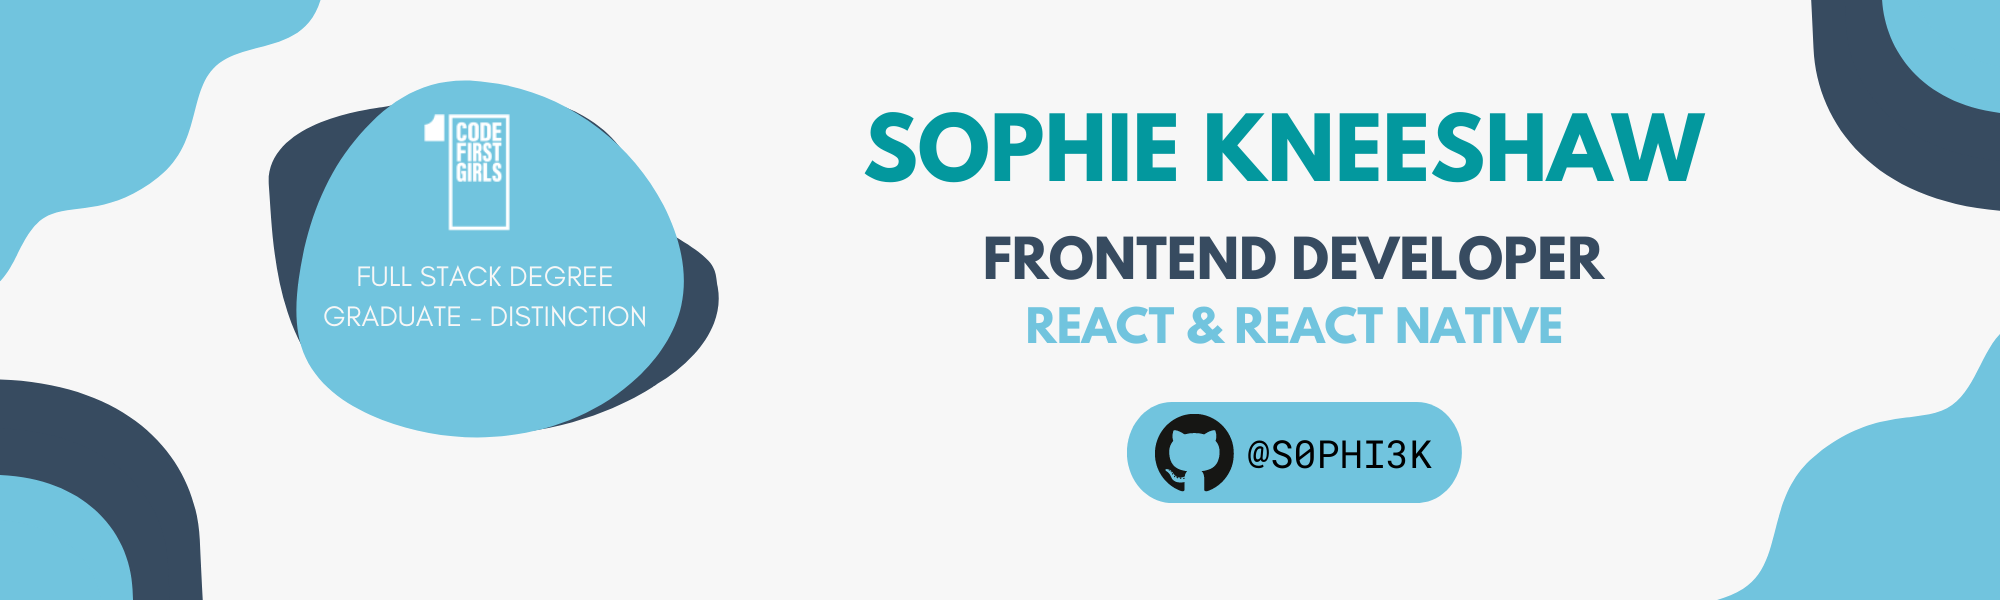
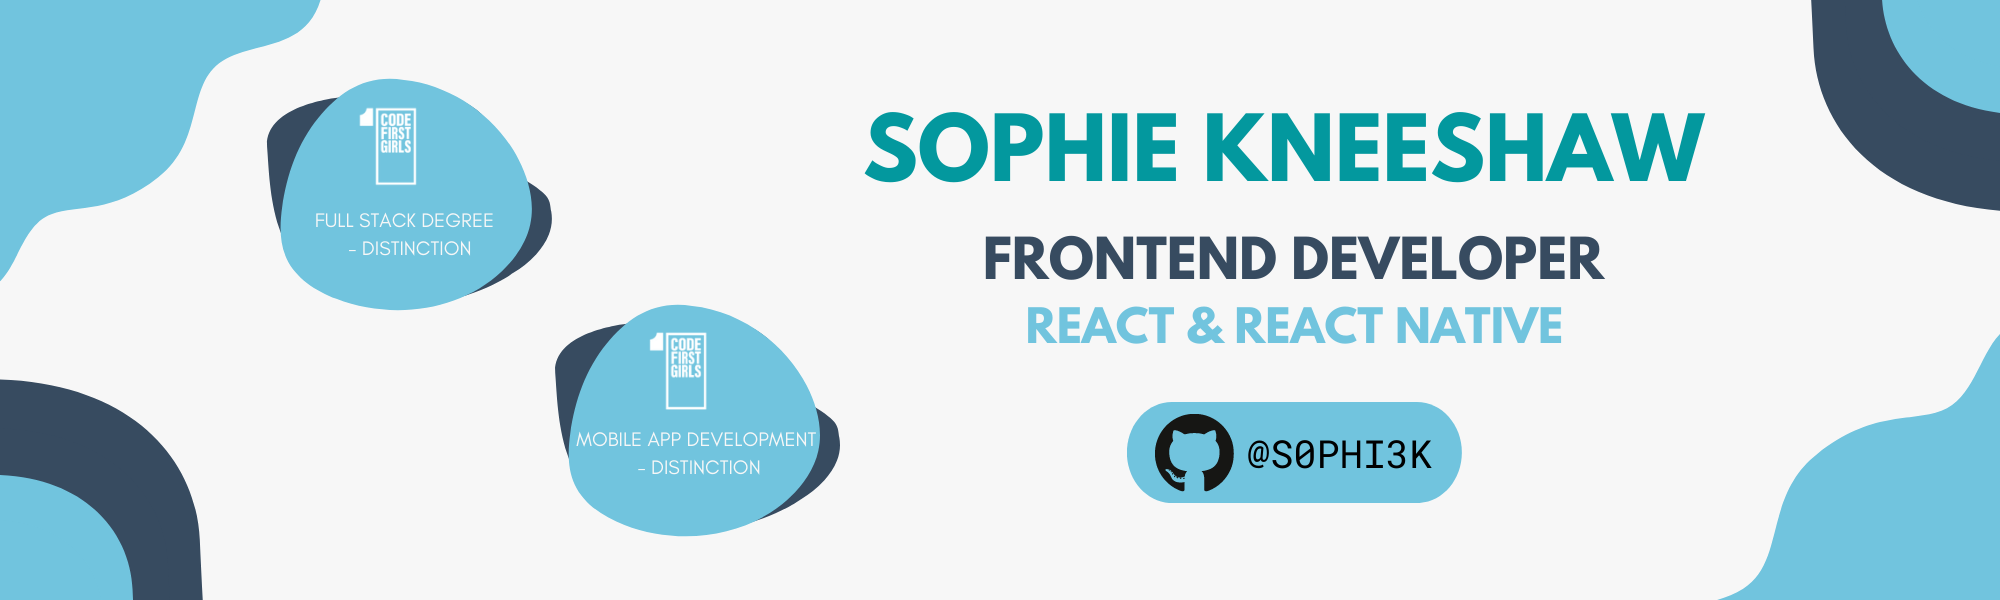
Updating Course Information

Changed region(s): [[0.124, 0.12, 0.434, 0.9]]

diff --git a/README.md b/README.md
@@ -16,12 +16,12 @@ I transitioned into tech in May 2022.
 
 - 💃 I'm currently a mentee at [Cajigo](http://www.structur3dpeople.co.uk/cajigo/)
 - 🔭 I’m currently working on personal projects to improve my skill set.
-- 🌱 I’m currently learning React hooks and redux through thge Code First Girls Mobile App Development course.
+- 🌱 I’m currently consolidating my learning through the various Scrimba Projects.
 - 👯 I’m looking to collaborate on projects
 - 🤔 I’m looking for help with improving the quality of my code and testing code.
 - 💬 Ask me about my transition in tech from writing my first line of code in February 2022.
 - 🎓 I'm a [Code First Girls](https://codefirstgirls.com/courses/cfgdegree/) Full Stack Developer Graduate, achieving 90% (Distinction)
-- 👩🎓 I've just completed [Code First Girls](https://codefirstgirls.com/courses/masters/) Masters in Mobile App Development
+- 👩🎓 I've recently completed [Code First Girls](https://codefirstgirls.com/courses/masters/) Masters in Mobile App Development, achieving 94% (Distinction)
 - 😄 Pronouns: She/Her
 - ⚡ Fun fact: One of my favourite concerts was seeing the Vengaboys in 2017 (controversial, I know!)
 
@@ -57,8 +57,9 @@ I transitioned into tech in May 2022.
 
 ### 🏢 Education:
 
-- +Masters Mobile App Development with [Code First Girls](https://codefirstgirls.com/courses/masters/)
-- Full Stack Developer Degree with [Code First Girls](https://codefirstgirls.com/courses/cfgdegree/)
+- +Masters Mobile App Development with [Code First Girls](https://codefirstgirls.com/courses/masters/) - Distinction (94%)
+- Full Stack Developer Degree with [Code First Girls](https://codefirstgirls.com/courses/cfgdegree/) - Distinction (90%)
+- JavaScript MOOC Sprint with [Code First Girls](https://codefirstgirls.com/courses/moocs/)
 - Data & SQL MOOC Sprint with [Code First Girls](https://codefirstgirls.com/courses/moocs/)
 - UX/UI MOOC Sprint with [Code First Girls](https://codefirstgirls.com/courses/moocs/)
 - Bug Fixing MOOC Sprint with [Code First Girls](https://codefirstgirls.com/courses/moocs/)
